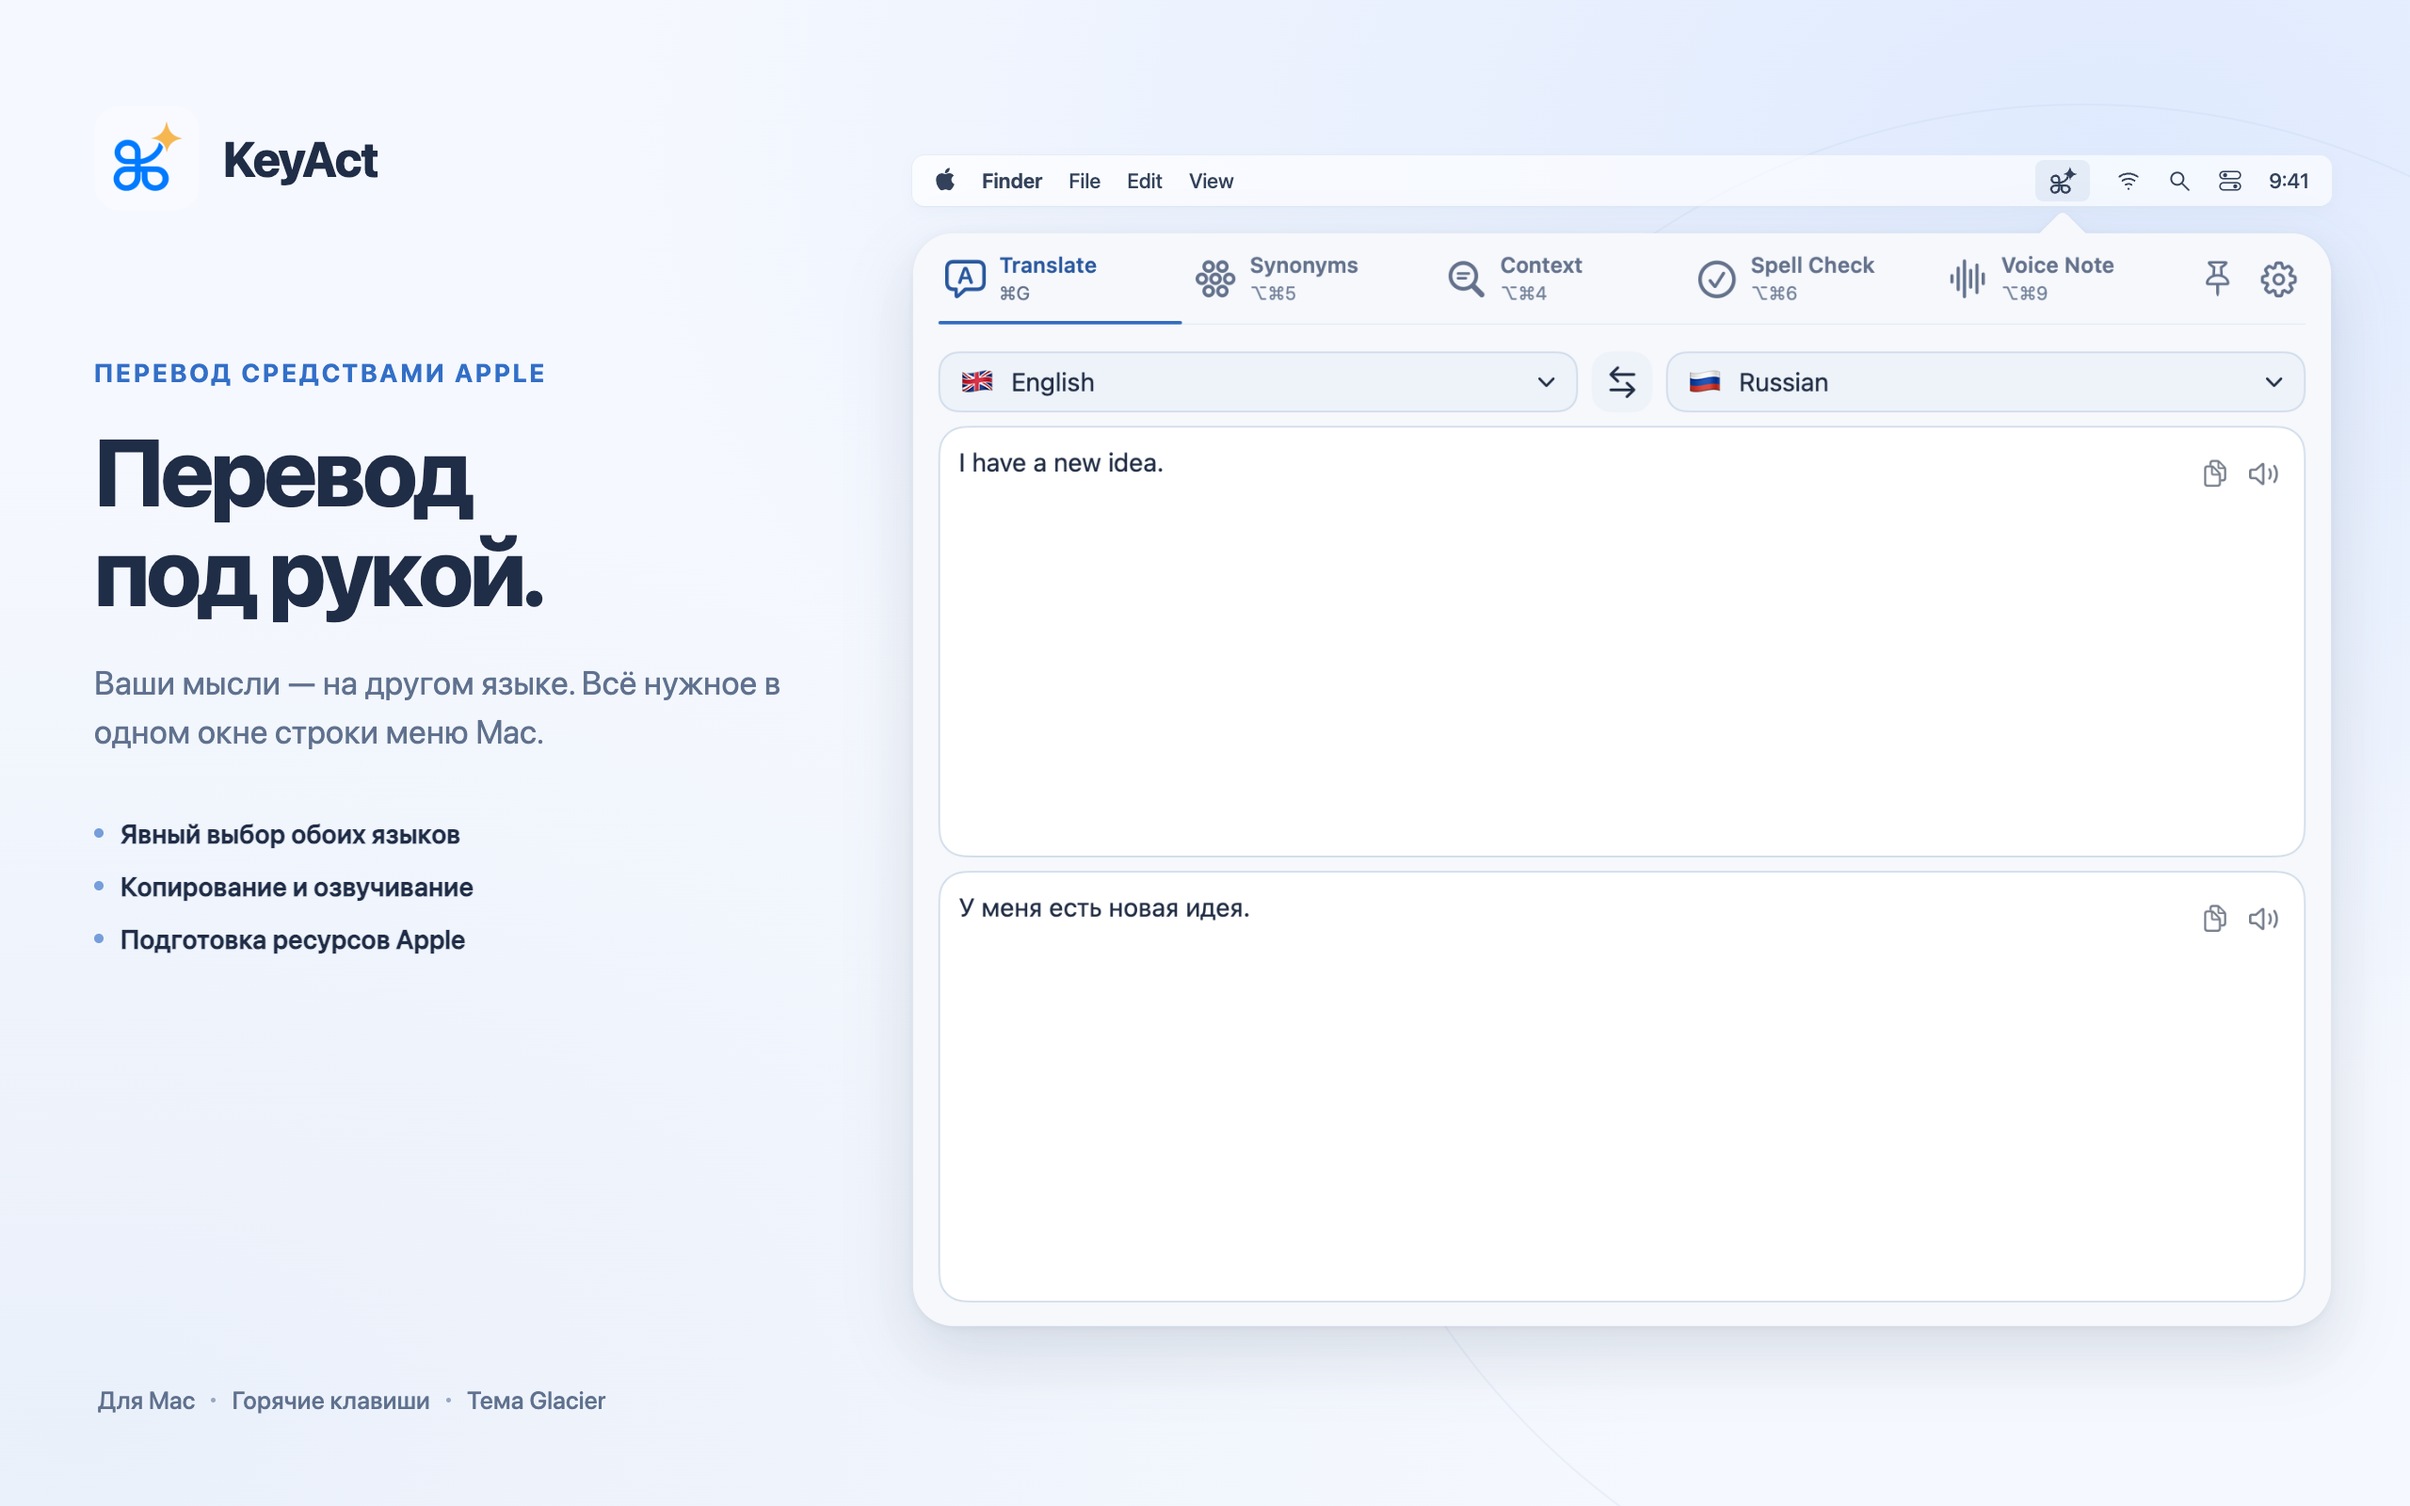
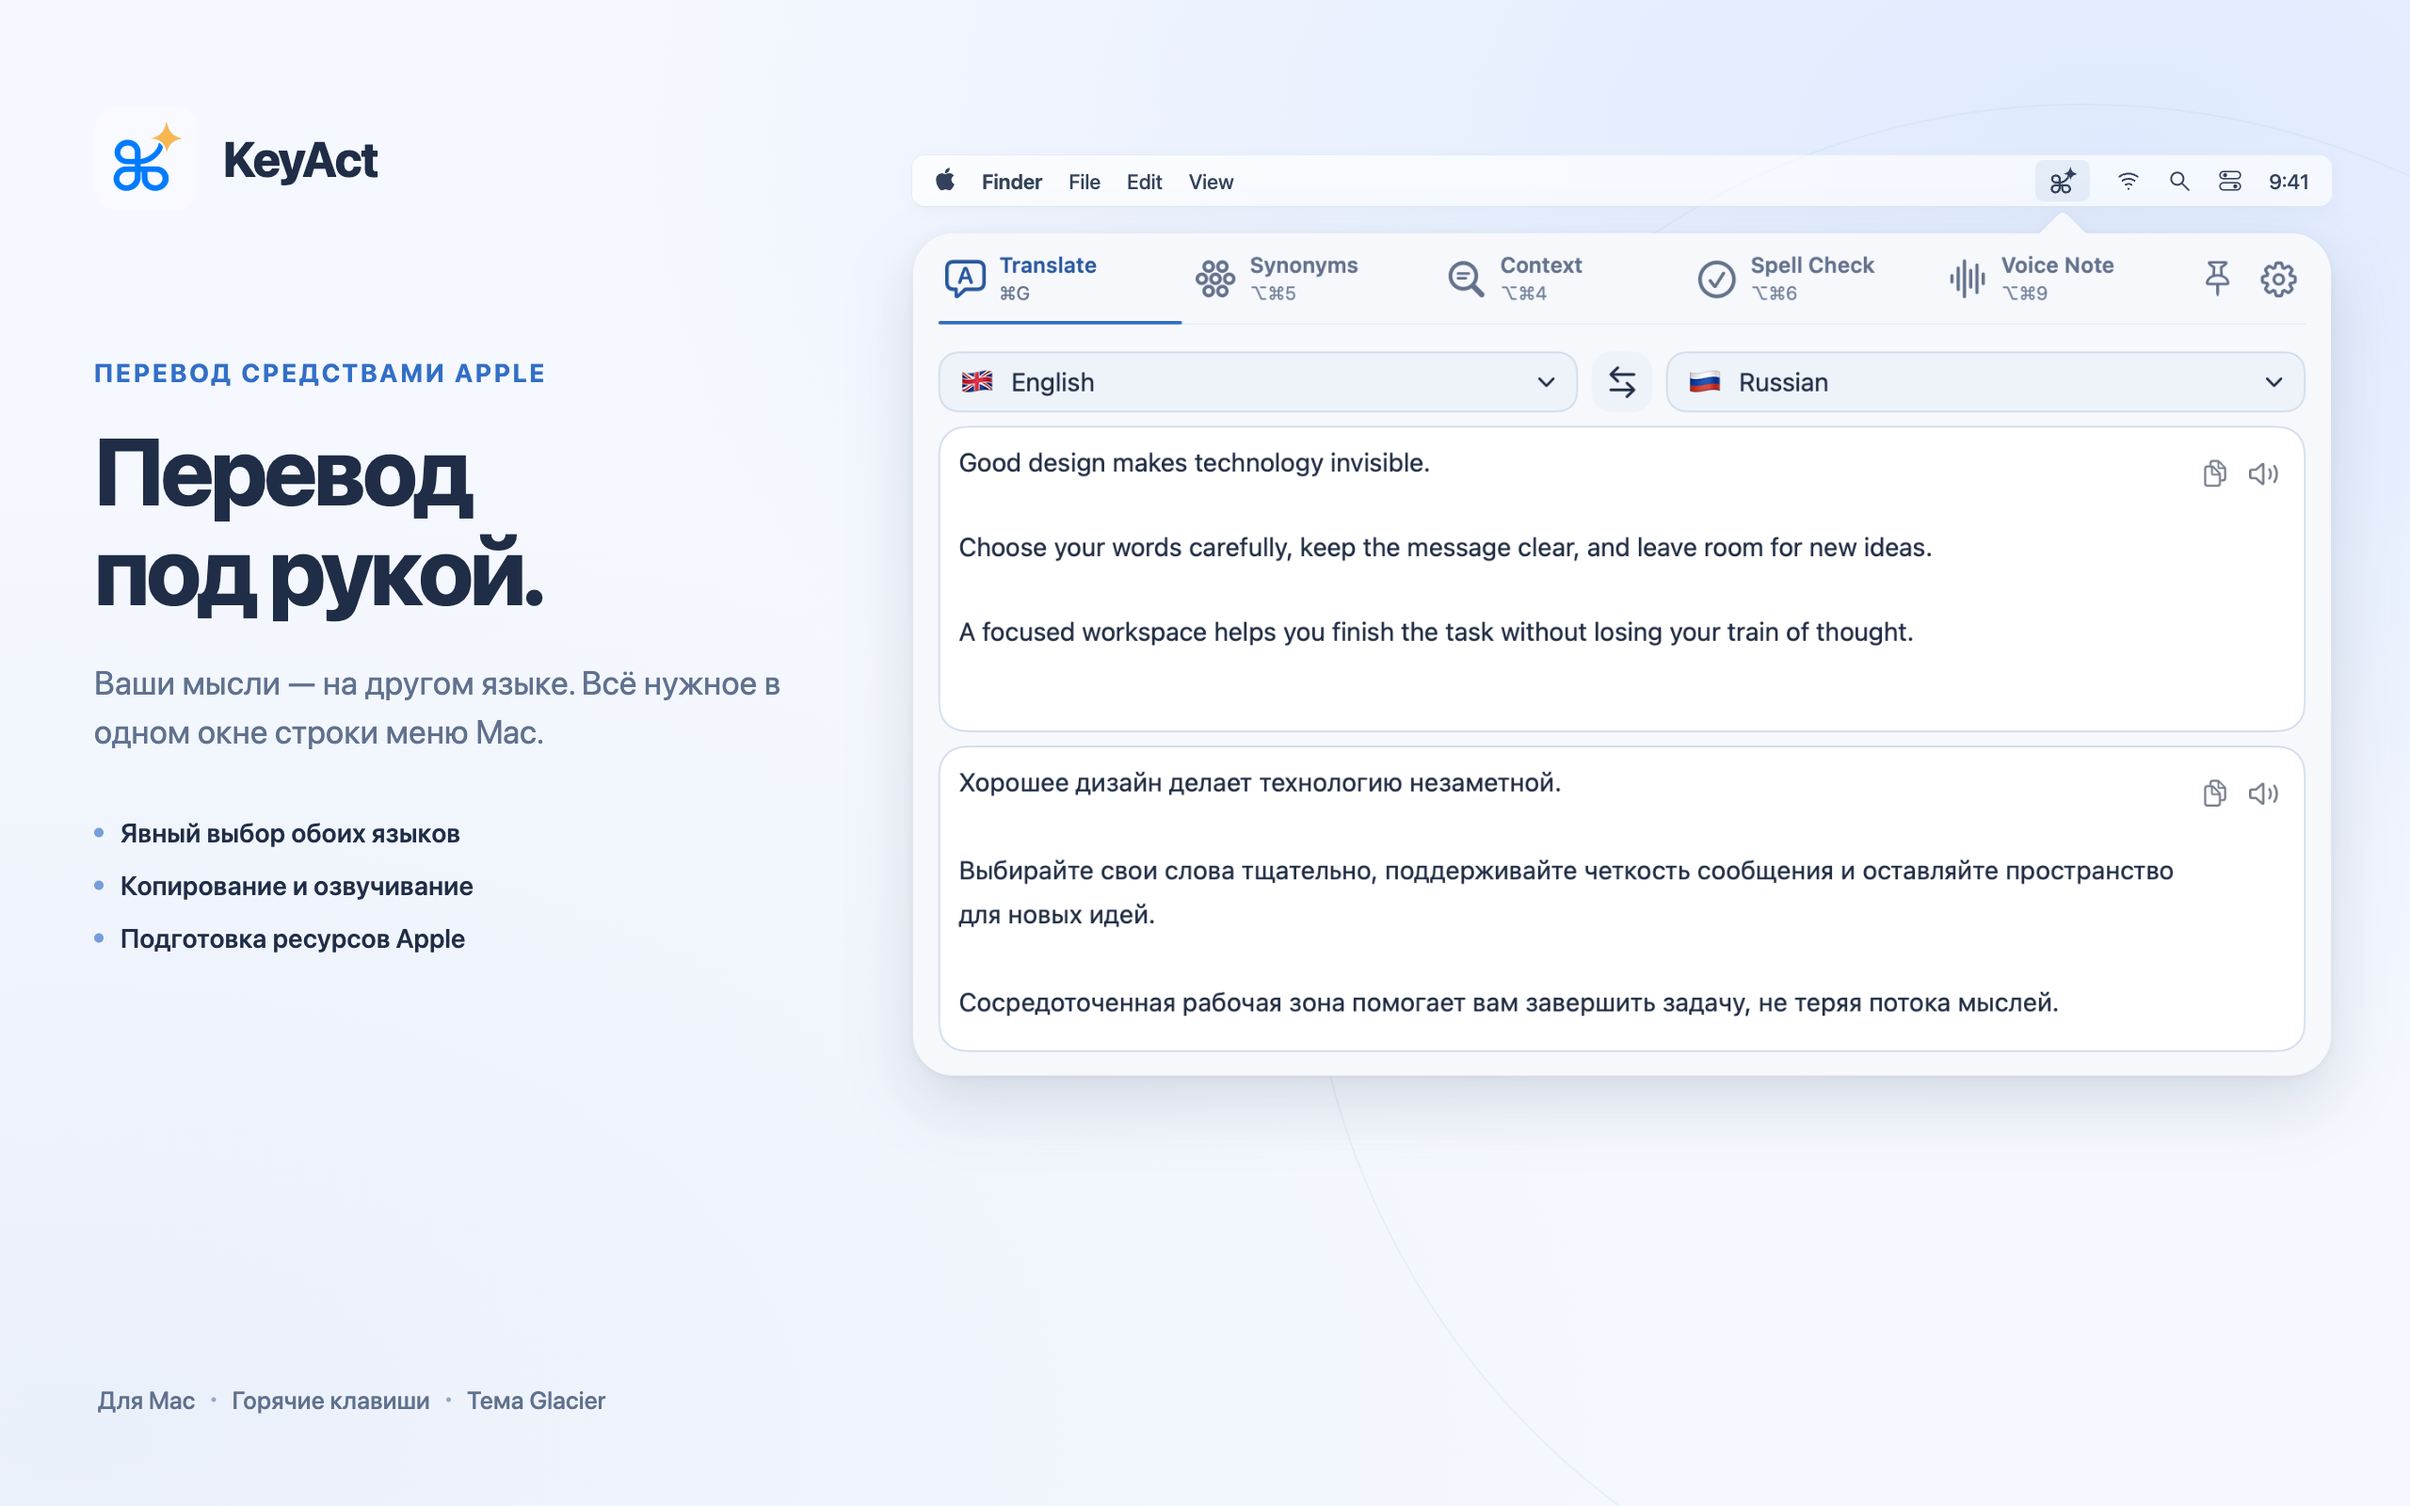
Add verified KeyAct and Ping Light media kits

diff --git a/products/keyact/press/index.html b/products/keyact/press/index.html
@@ -1,0 +1,43 @@
+<!doctype html>
+<html lang="en">
+<head>
+  <meta charset="utf-8"><meta name="viewport" content="width=device-width, initial-scale=1">
+  <link rel="icon" href="data:,"><link rel="stylesheet" href="../../../assets/site.css">
+  <link rel="canonical" href="https://stekolshchykov.github.io/dochub/products/keyact/press/">
+  <meta name="description" content="KeyAct media kit: verified product facts, Mac screenshots, icon, review angles and contact.">
+  <title>KeyAct — Media kit</title>
+</head>
+<body>
+  <header class="site-header"><a class="brand" href="../../../">DocHub</a><span class="meta">KeyAct · Media kit</span></header>
+  <main>
+    <a class="back" href="../">← KeyAct</a><p class="eyebrow">For editors and testers</p>
+    <h1>Translation a shortcut away.</h1>
+    <p class="lead">KeyAct puts Apple-powered translation, word tools and local voice notes in the Mac menu bar, with explicit language choices and keyboard access.</p>
+    <h2>Product facts</h2>
+    <ul>
+      <li>Native macOS app, macOS 15 or later. The App Store candidate is version 1.0.0, build 6; publication is not yet approved.</li>
+      <li>One-time purchase, no subscription. Planned U.S. price: $5; local storefront prices use Apple's regional pricing.</li>
+      <li>Apple translation, related words, parts of speech, spelling, dictionary lookup, voice notes, history and custom actions.</li>
+      <li>A finite bundled offline conjugation catalog contains verb forms for 14 languages. Coverage varies by language and verb.</li>
+      <li>Apple resources have different language coverage; some require downloading. Voice recognition requires a supported on-device route for the selected locale.</li>
+      <li>The interface is in English; product captions and help are available in English and Russian.</li>
+    </ul>
+    <h2>Useful review angles</h2>
+    <div class="grid">
+      <article class="card"><h3>Stay with the writing task</h3><p>Select languages, translate, and use the result without moving to a browser dashboard.</p></article>
+      <article class="card"><h3>Explore one word</h3><p>Compare related words, inspect word classes and copy or speak an individual result.</p></article>
+      <article class="card"><h3>Language availability is explicit</h3><p>The resource assistant distinguishes installed, available and unsupported capabilities instead of silently changing the language.</p></article>
+      <article class="card"><h3>A voice note on your terms</h3><p>Choose the recognition locale, audio location and whether to save audio, transcription or both.</p></article>
+    </div>
+    <h2>Images and icon</h2>
+    <p>These images may be used to describe KeyAct. Retain the product identity and do not imply capabilities beyond the accompanying facts.</p>
+    <div class="product-links"><a href="../media/icon.png" download>App icon · PNG</a><a href="../media/translate.png" download>Translation · English captions</a><a href="../media/translate-ru.png" download>Translation · Russian captions</a><a href="../media/synonyms.png" download>Related words · Dark appearance</a><a href="../media/conjugation.png" download>Russian verb forms</a><a href="../media/voice.png" download>Voice-note layout</a></div>
+    <figure class="product-preview"><img src="../media/translate.png" width="2560" height="1600" alt="Native KeyAct translation page with explicit English and Russian language choices"><figcaption>Actual native UI in an illustrated menu-bar composition, not a titled application window. The voice-note image uses a saved transcript fixture; it is not evidence of a live microphone test.</figcaption></figure>
+    <h2>Testing and boundaries</h2>
+    <p>The sandbox App Store edition uses manual input or the clipboard, URL/HTTP actions and user-installed executable scripts. Typed shell commands and Accessibility-based selection belong to the separate full local edition. Do not describe the App Store edition as an unrestricted terminal.</p>
+    <p>No developer-operated analytics SDK, account or advertising. Optional online lookup contacts a third-party dictionary service; see the <a href="../privacy/">privacy policy</a>. Offline language support is not universal.</p>
+    <p>For testing access, corrections or press questions: <a href="mailto:admin@raindigit.ie?subject=KeyAct%20media%20or%20testing">admin@raindigit.ie</a>. Include the platform and version you want to test; never send private text, credentials or recordings.</p>
+  </main>
+  <footer class="site-footer"><span>Facts checked 29 September 2026</span><a href="../support/">Support</a></footer>
+</body>
+</html>

diff --git a/products/ping-light/press/index.html b/products/ping-light/press/index.html
@@ -1,0 +1,41 @@
+<!doctype html>
+<html lang="en">
+<head>
+  <meta charset="utf-8"><meta name="viewport" content="width=device-width, initial-scale=1">
+  <link rel="icon" href="data:,"><link rel="stylesheet" href="../../../assets/site.css">
+  <link rel="canonical" href="https://stekolshchykov.github.io/dochub/products/ping-light/press/">
+  <meta name="description" content="Ping Light media kit: local HTTP endpoint checks, native Mac screenshots, icon, product facts and contact.">
+  <title>Ping Light — Media kit</title>
+</head>
+<body>
+  <header class="site-header"><a class="brand" href="../../../">DocHub</a><span class="meta">Ping Light · Media kit</span></header>
+  <main>
+    <a class="back" href="../">← Ping Light</a><p class="eyebrow">For editors and testers</p>
+    <h1>Your endpoints. One quick look.</h1>
+    <p class="lead">Ping Light checks websites and HTTP APIs from the Mac menu bar, with expected-status rules, local history and failure/recovery notifications.</p>
+    <h2>Product facts</h2>
+    <ul>
+      <li>Native macOS app, macOS 13 or later. Version 1.0, build 4, is awaiting App Review; it is not yet publicly released.</li>
+      <li>One-time purchase, no subscription or account. Planned U.S. price: $0.99; other storefronts use Apple's regional pricing.</li>
+      <li>Per-endpoint HTTP method, expected response code, interval, timeout and supported authentication.</li>
+      <li>Menu-bar status, recent results, response-time history and configurable failure/recovery notifications.</li>
+      <li>Credentials use macOS Keychain. Import and export endpoint configurations as JSON; review URLs and request bodies before sharing.</li>
+      <li>Monitoring requires an awake, connected Mac and a running app. Ping Light is not an always-on cloud uptime service.</li>
+    </ul>
+    <h2>Useful review angles</h2>
+    <div class="grid">
+      <article class="card"><h3>Keep a development API in view</h3><p>Check endpoints reachable from your own Mac and recognize unexpected response codes without opening a dashboard.</p></article>
+      <article class="card"><h3>Define healthy, not just reachable</h3><p>Configure the HTTP method and response code appropriate to each endpoint.</p></article>
+      <article class="card"><h3>Follow failure and recovery</h3><p>Inspect local history and configure macOS alerts, with notification permission and endpoint settings taken into account.</p></article>
+    </div>
+    <h2>Images and icon</h2>
+    <p>Native UI captures use illustrative <code>.example</code> endpoints. They demonstrate interface states, not an uptime measurement or a benchmark. The marketing frame illustrates the macOS menu bar.</p>
+    <div class="product-links"><a href="../media/icon.png" download>App icon · PNG</a><a href="../media/overview.jpg" download>Overview · Light appearance</a><a href="../media/rules.jpg" download>HTTP rules</a><a href="../media/history.jpg" download>History · Dark appearance</a><a href="../media/preferences.jpg" download>Preferences</a></div>
+    <figure class="product-preview"><img src="../media/overview.jpg" width="2560" height="1600" alt="Ping Light menu-bar status showing example endpoint check results"><figcaption>Local checks: Mac awake, app running. New media assets do not replace the build currently waiting for Apple's review.</figcaption></figure>
+    <h2>Testing and contact</h2>
+    <p>Start with a URL you control, verify the expected status, then observe a controlled failure and recovery. Check notification permission, network reachability and sleep behavior separately. See the <a href="../support/">setup guide</a> and <a href="../privacy/">privacy policy</a>.</p>
+    <p>For testing access, corrections or press questions: <a href="mailto:admin@raindigit.ie?subject=Ping%20Light%20media%20or%20testing">admin@raindigit.ie</a>. Do not send bearer tokens, credentials or sensitive endpoint URLs.</p>
+  </main>
+  <footer class="site-footer"><span>Facts checked 29 September 2026</span><a href="../support/">Support</a></footer>
+</body>
+</html>

diff --git a/products/ping-light/index.html b/products/ping-light/index.html
@@ -20,8 +20,9 @@
       <p class="eyebrow">Ping Light · macOS 13 or later</p>
       <h1>Keep your endpoints<br>in view.</h1>
       <p class="lead">Check websites and HTTP APIs from your Mac menu bar. Set the response you expect, see recent checks, and receive failure and recovery alerts without opening a dashboard.</p>
-      <div class="product-links"><a href="support/">Set up your first check</a><a href="privacy/">Privacy policy</a><a href="mailto:admin@raindigit.ie?subject=Ping%20Light%20testing">Ask about testing</a></div>
+      <div class="product-links"><a href="support/">Set up your first check</a><a href="privacy/">Privacy policy</a><a href="press/">Media kit</a><a href="mailto:admin@raindigit.ie?subject=Ping%20Light%20testing">Ask about testing</a></div>
       <p class="meta">One-time purchase. No subscription, account, advertising, or developer-operated monitoring server. Version 1.0 is awaiting App Review; a public purchase link will appear after release.</p>
+      <figure class="product-preview"><img src="media/overview.jpg" width="2560" height="1600" alt="Ping Light's native menu-bar view showing example endpoint checks, status codes and response times"><figcaption>Native interface with illustrative endpoints and an illustrated macOS menu bar. Checks run from your awake Mac, not a cloud monitoring service.</figcaption></figure>
       <div class="grid">
         <article class="card">
           <h3>Define a useful check</h3>

diff --git a/products/keyact/index.html b/products/keyact/index.html
@@ -21,7 +21,7 @@
       <p class="eyebrow">KeyAct · macOS 15 or later</p>
       <h1>A word away.<br>A shortcut closer.</h1>
       <p class="lead">Translate with Apple, explore a word, or keep a thought as a voice note. Choose your languages and open the tools you need from the Mac menu bar.</p>
-      <div class="product-links"><a href="support/">Get started</a><a href="privacy/">Privacy policy</a><a href="mailto:admin@raindigit.ie?subject=KeyAct%20testing">Ask about testing</a></div>
+      <div class="product-links"><a href="support/">Get started</a><a href="privacy/">Privacy policy</a><a href="press/">Media kit</a><a href="mailto:admin@raindigit.ie?subject=KeyAct%20testing">Ask about testing</a></div>
       <p class="meta">One-time purchase. No subscription, developer account, advertising, or third-party analytics SDK. The App Store edition is being prepared; a public purchase link will appear after release.</p>
       <figure class="product-preview"><img src="media/translate.png" width="2560" height="1600" alt="KeyAct translating explicitly selected English text into Russian in a light-theme menu-bar popover"><figcaption>Native KeyAct interface with an illustrated macOS menu bar. Language support depends on the selected tool and resources on your Mac.</figcaption></figure>
       <div class="grid">
